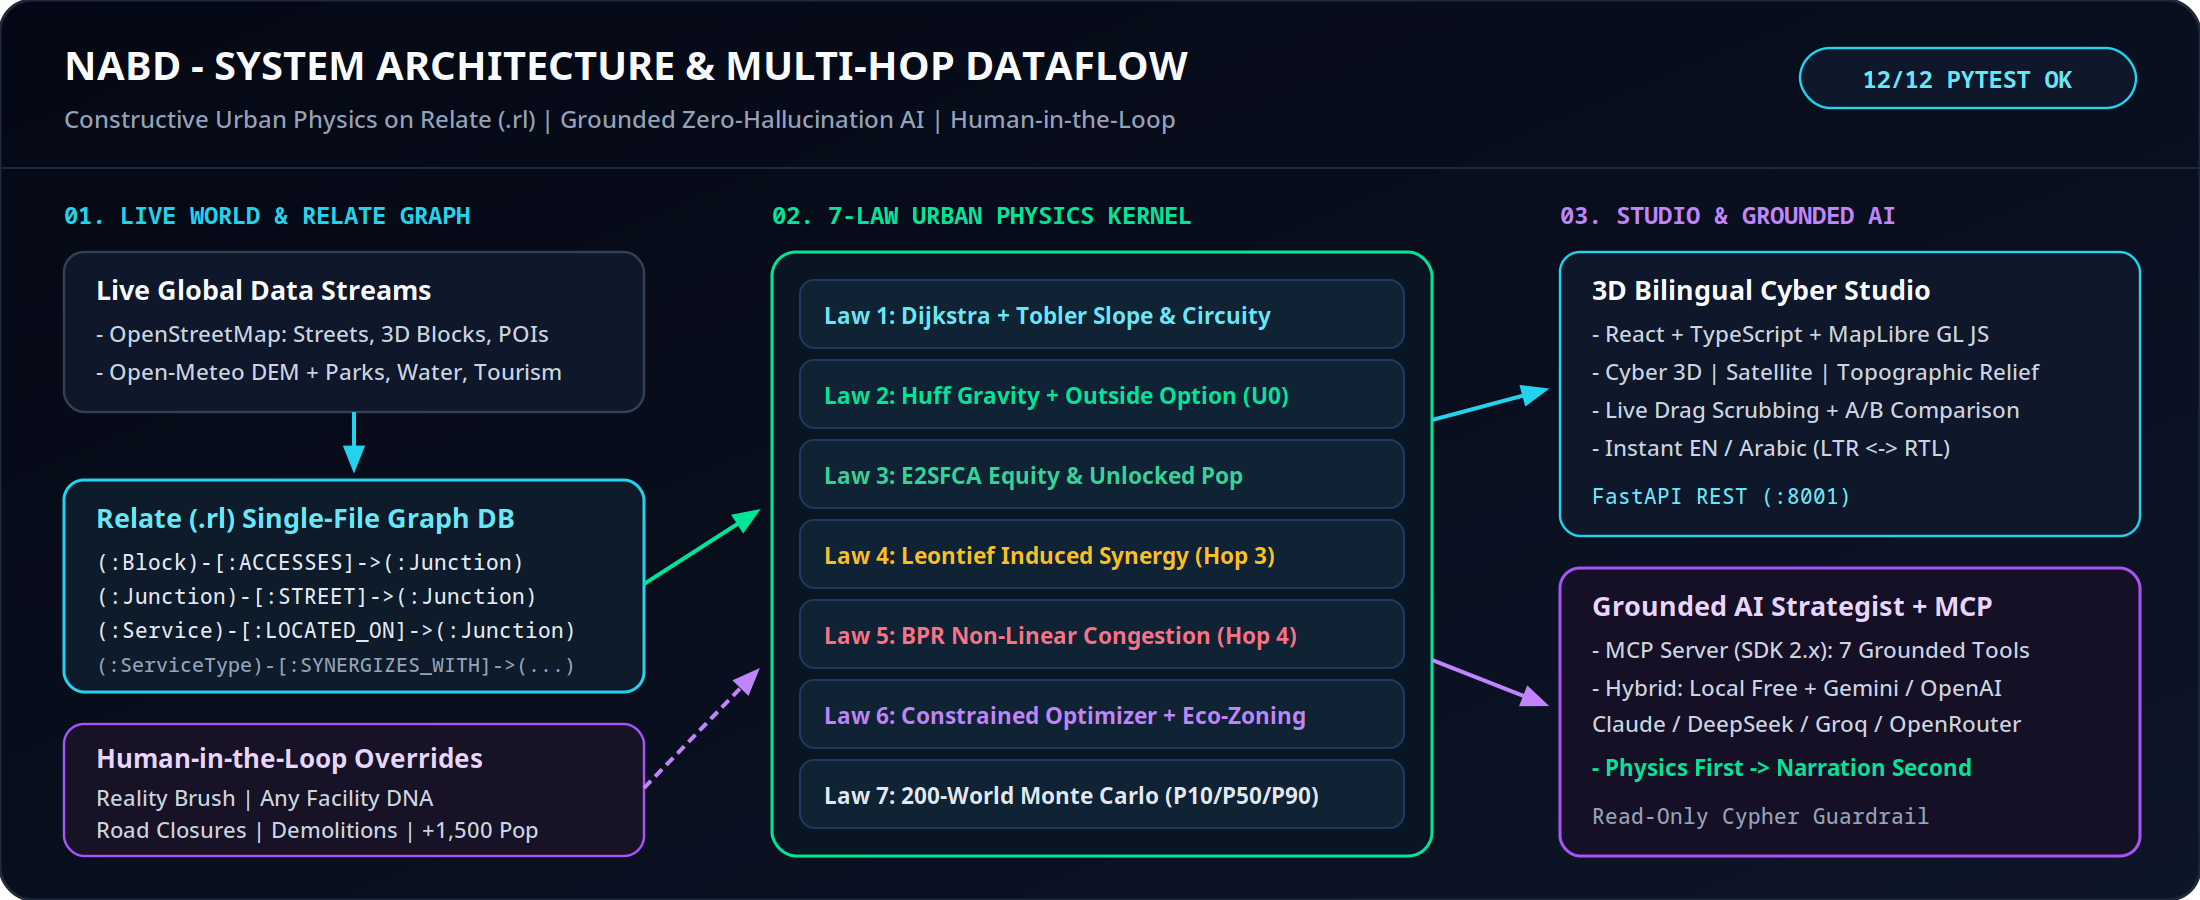
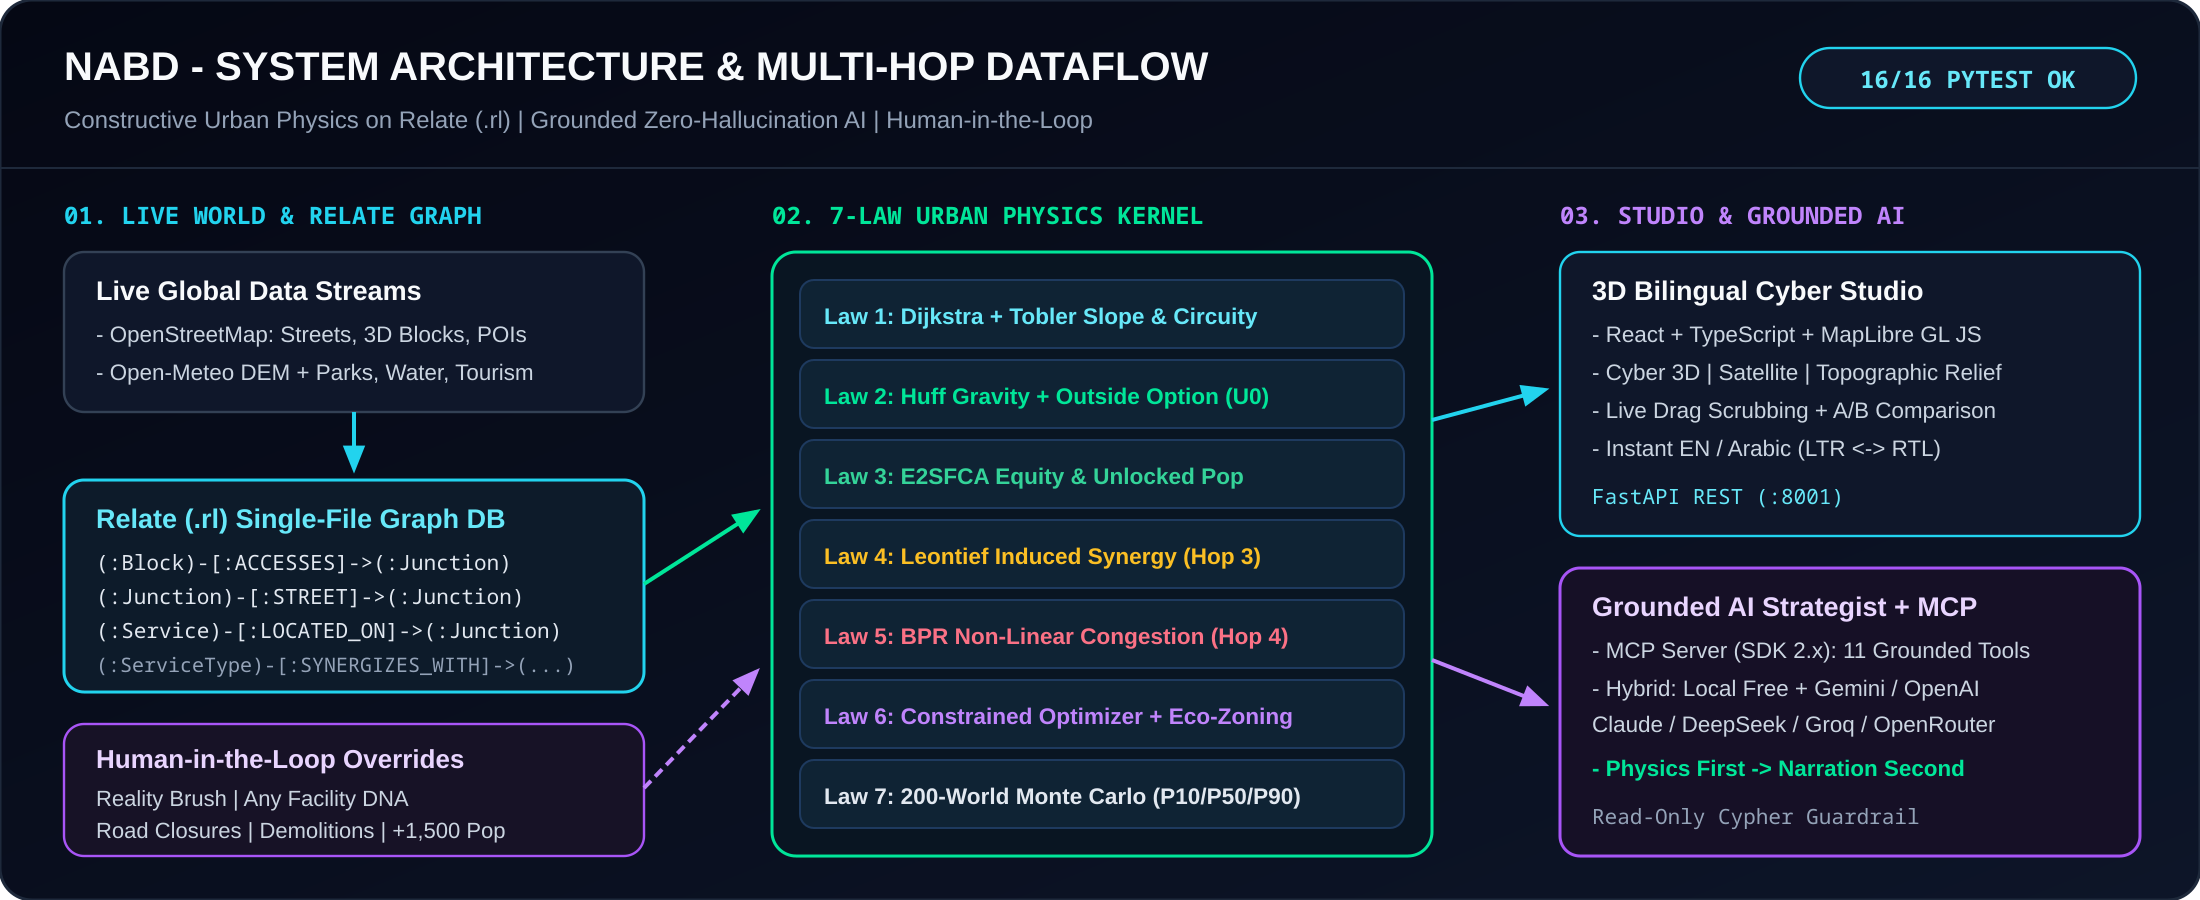
docs: fix Law 1/4 math rendering and sync architecture diagram metrics (16 tests, 11 MCP tools)

diff --git a/README.md b/README.md
@@ -41,10 +41,10 @@ Every calculation inside `backend/engine/physics.py` and `backend/engine/terrain
 
 | Law | Phenomenon Modeled | Scientific Pioneers | Mathematical Formulation in Nabd |
 | :--- | :--- | :--- | :--- |
-| **Law 1** | **Topological Accessibility, Circuity & Asymmetric Terrain Slope** | **Edsger W. Dijkstra** (1959) · **Waldo R. Tobler** (1993) | Directed street-graph shortest paths weighted by Tobler's hiking speed ratio normalized to flat ground: $r(s) = \exp\!\left(-3.5\left(\lvert s + 0.05\rvert - 0.05\right)\right)$, where uphill slopes penalize pedestrian reach more than gentle downhills. Exposes **Topological Illusions** where circuity $CI = d_{\text{network}} / d_{\text{euclid}} \ge 1.6$. |
+| **Law 1** | **Topological Accessibility, Circuity & Asymmetric Terrain Slope** | **Edsger W. Dijkstra** (1959) · **Waldo R. Tobler** (1993) | Directed street-graph shortest paths weighted by Tobler's hiking speed ratio normalized to flat ground: $`r(s) = \exp(-3.5(|s + 0.05| - 0.05))`$, where uphill slopes penalize pedestrian reach more than gentle downhills. Exposes **Topological Illusions** where circuity $CI = d_{\text{network}} / d_{\text{euclid}} \ge 1.6$. |
 | **Law 2** | **Competitive Spatial Gravity & Outside Option** | **William J. Reilly** (1931) · **David L. Huff** (1963) | $$P_{ij} = \frac{A_j^\alpha \, T_{ij}^{-\beta}}{\sum_{k} A_k^\alpha \, T_{ik}^{-\beta} + U_0}$$ The outside option $U_0$ cleanly separates **new unmet demand captured** from **competitor cannibalization**. |
 | **Law 3** | **Spatial Equity & Floating Catchment Supply-Demand (E2SFCA)** | **John Radke & Lan Mu** (2000) · **Wei Luo & Yi Qi** (2009) | Two-step floating catchment with Gaussian decay $W(t)=\exp(-(t/t_{\text{ideal}})^2)$ measuring supply-to-demand ratio $R_j = C_j / \sum_i D_i W_{ij}$ and spatial equity $E_i = \sum_j W_{ij} R_j$ before and after injection, plus exact residents newly unlocked within ideal walking time. |
-| **Law 4** | **Multi-Hop Induced Inter-Sectoral Synergy (Hop 3)** | **Wassily Leontief** (1936; Nobel Prize 1973) | Traverses `(:ServiceType)-[:SYNERGIZES_WITH]->(:ServiceType)` edges in `Relate` to compute cross-category induced visits $D^{\text{ind}}_b = 0.65 \, V_a \, m_{a \to b}$ minus distance-decayed nearby spare capacity $\sum_s 0.35 C_s e^{-\gamma t_s}$, flagging emerging secondary deficits. |
+| **Law 4** | **Multi-Hop Induced Inter-Sectoral Synergy (Hop 3)** | **Wassily Leontief** (1936; Nobel Prize 1973) | Traverses `(:ServiceType)-[:SYNERGIZES_WITH]->(:ServiceType)` edges in `Relate` to compute cross-category induced visits $`D^{\text{ind}}_b = 0.65 \, V_a \, m_{a \to b}`$ minus distance-decayed nearby spare capacity $\sum_s 0.35 C_s e^{-\gamma t_s}$, flagging emerging secondary deficits. |
 | **Law 5** | **Non-Linear Capacity & Street Congestion (Hop 4)** | **U.S. Bureau of Public Roads — BPR** (1964) | $$t_{\text{eff}} = t_0 \left[1 + 0.15 \left(\frac{V}{C}\right)^4\right]$$ Captures sharp non-linear queuing and adjacent-street delay spikes once utilization crosses $85\%\text{–}90\%$. |
 | **Law 6** | **Constrained Spatial Optimization & Eco-Zoning Guardrails** | **Alfred Weber** (1909) · **S. Louis Hakimi** (1964) | Scans candidate junctions to maximize composite network gain $J$ while strictly penalizing/excluding restricted zoning polygons (**waterways, wetlands, public parks, cemeteries**) and applying proximity multipliers for **parks, waterfronts, tourism landmarks, universities, and schools**. |
 | **Law 7** | **Stochastic Uncertainty & Viability Envelope** | **Stanislaw Ulam, John von Neumann & Nicholas Metropolis** (1940s) | Runs $N=200$ perturbed worlds sampling population ($\sigma=14\%$), decay ($\sigma=0.22$), and attraction ($\sigma=15\%$) to emit **P10 / P50 / P90** bounds and viability probability. |
